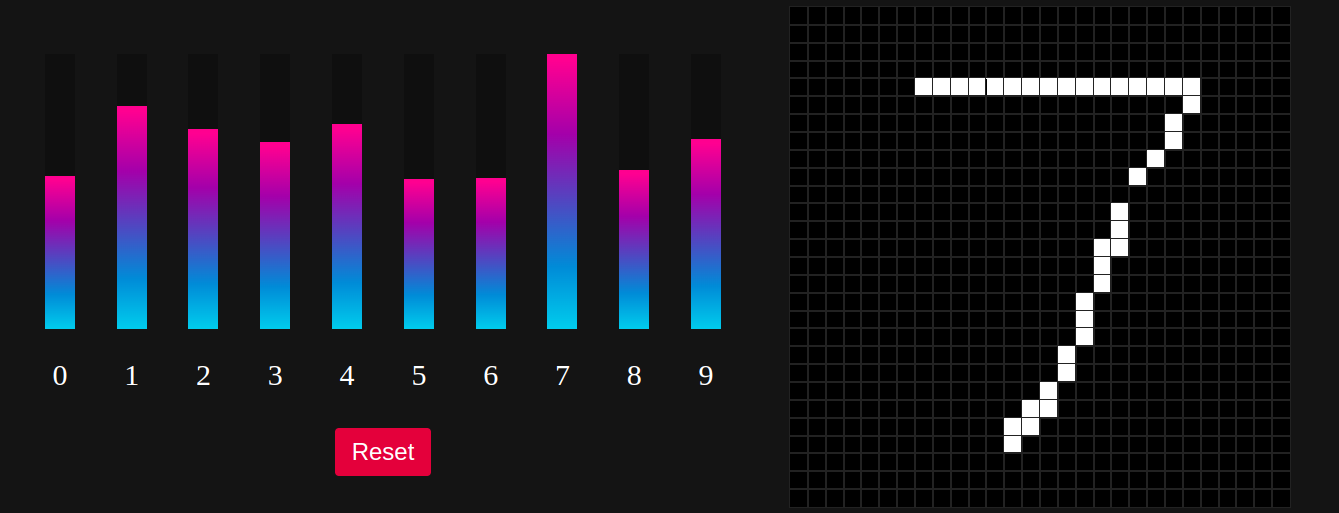
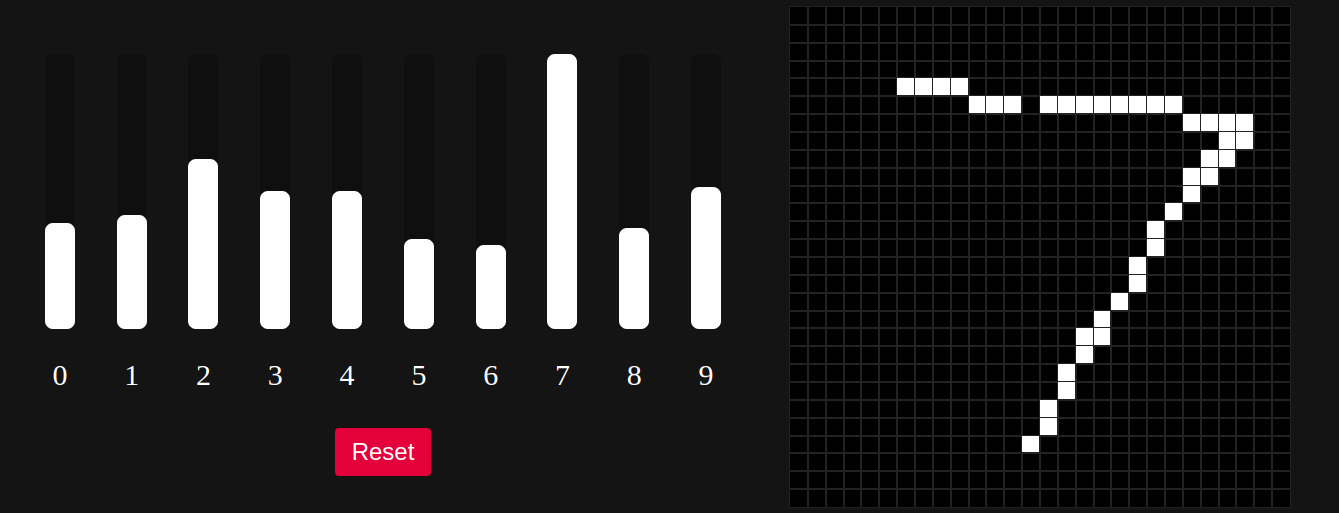
Change styling

diff --git a/static/style.css b/static/style.css
@@ -62,6 +62,7 @@ body {
   background-color: rgb(15, 15, 15);
   height: 100%;
   width: 30px;
+  border-radius: 0.5rem;
 }
 
 .num_value::after {
@@ -69,8 +70,9 @@ body {
   transform: translate(-50%, 0);
   content: "";
   position: absolute;
-  background-image: linear-gradient(#e7228e, #4dcaec);
+  background-color: white;
   width: 30px;
+  border-radius: 0.5rem;
 }
 
 .nv_0::after {
@@ -141,7 +143,7 @@ body {
 
 /* .pixel:active {
   background-color: white;
-}
+} */
 .pixel:hover {
   background-color: white;
-} */
+}

diff --git a/static/index.js b/static/index.js
@@ -30,7 +30,7 @@ function connectSock() {
             })
             let maxValue = Math.max(...predictions)
             for (let i = 0; i < predictions.length; i++) {
-                let percentage = (maxValue / predictions[i]) * 100;
+                let percentage = Math.pow(maxValue / predictions[i], 2) * 100;
                 root.style.setProperty(`--value-${i}`, `${percentage}%`);
             }
         }

diff --git a/main.py b/main.py
@@ -16,11 +16,16 @@ def echo(sock):
     while True:
         data = sock.receive()
         data = json.loads(data)
-        data = cv2.GaussianBlur(np.array(data), (1, 1), 0)
-        data = torch.Tensor(data)
-        data = data.view(1, 1, 28, 28)
-        with torch.no_grad():
-            sock.send(net(data).tolist()[0])
+        data = np.array(data)
+        try:
+            data = cv2.GaussianBlur(np.array(data), (1, 1), 0)
+            data = torch.Tensor(data)
+            data = data.view(1, 1, 28, 28)
+            with torch.no_grad():
+                sock.send(net(data).tolist()[0])
+        except Exception as e:
+            print(e)
+            sock.send([0 for i in range(10)])
 
 
 @app.route("/")
